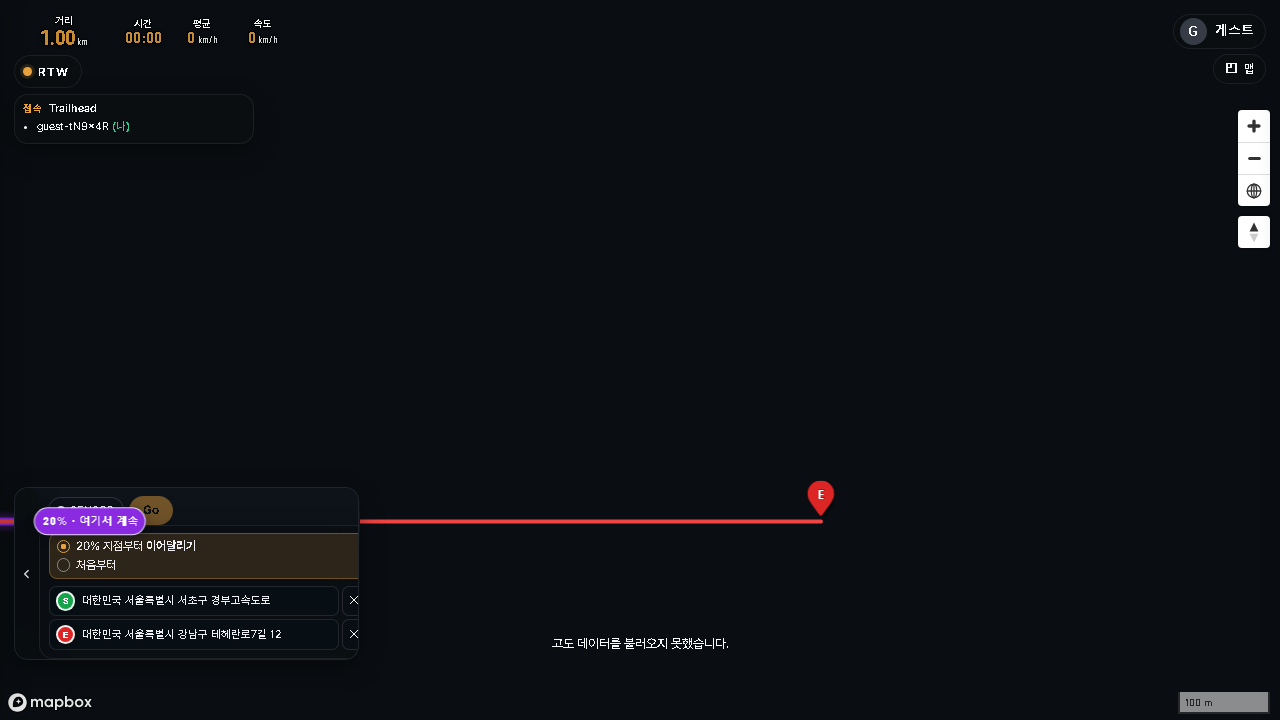
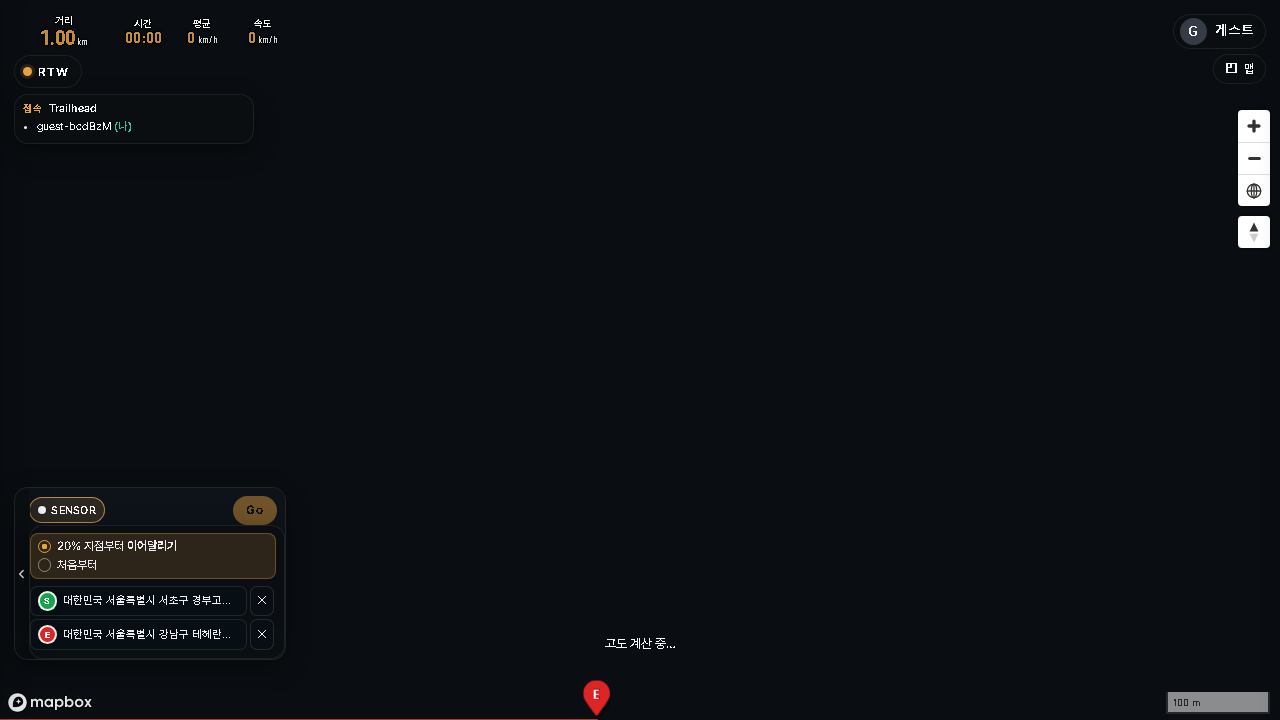
feat(map): 주행 중 라이더를 화면 「위 6 : 아래 4」 자리로
"주행 중에는 이미 지난 경로는 상대적으로 중요성이 덜하지만 주행해야 할 앞의
경로는 보다 길게 보여줄 필요가 있다"(Chief).

화면 위쪽이 진행 방향이므로, 카메라가 겨누는 지점을 앞으로 밀면 라이더는
화면에서 아래로 내려오고 앞길이 그만큼 길어진다.
RIDE_RIDER_SCREEN_ANCHOR = 0.6 (정중앙 0.5 → 위 6 : 아래 4).

── 순수 계약만 보고 끝냈으면 화면은 그대로였다 ─────────────────

처음에는 computeRideFollowFraming 의 일반 경로에만 보정을 넣었다. 계약은
통과했다. 그런데 렌더된 마커를 재 보니 0.484 — 여전히 중앙이었다.

주행 기본 모드 topDown 은 offsetBearing: null · distanceM: 0 을 돌려주고,
computeRideFollowFraming 은 그 경우 계산 없이 조기 반환한다:

    if (!(distanceM > 0) || offsetBearing == null) {
      return { center: riderLngLat, zoom: fallbackZoom };   // 라이더 = 중앙
    }

제품이 실제로 쓰는 경로가 바로 여기였다. 거리 개념이 없어 spanM 으로 배율을
구할 수 없으므로 줌에서 m/px 을 얻는다(rideRiderAnchorBiasMAtZoom). 보정
방향을 정하려면 화면 위쪽 방위가 필요해 screenUpBearing 을 스냅(MapView)과
틱(rideCameraFollow) 두 호출부에서 넘긴다.

적용 후 실측 0.681(요소 기준) — 중앙에서 확실히 내려왔다.

── 계약 ───────────────────────────────────────────────────────

정확한 0.6 은 순수 계약이 수식으로 잡는다(anchor 상수 · 0.5 는 밀지 않음 ·
0.6 은 뷰포트 10% · 퇴화 입력 0 · topDown 구도에서 화면 60%).
종전 계약은 라이더의 화면 세로 위치를 아예 재지 않아 중앙이든 아니든
통과했다 — 그 구멍을 막았다.

e2e 는 밴드(0.55~0.78)로 회귀만 막는다. 이 시험 환경은
`.map-view { min-height: 320px }` 가 뷰포트(275px)보다 커서 요소 기준 비율이
화면 비율과 정확히 같지 않고, 주행 중 카메라 스무딩도 섞이기 때문이다.
하한 0.55 는 종전 값 0.484 를 확실히 걸러낸다.

검증: tsc exit 0
      test:ride-camera-framing 75 pass/0 fail(신규 5건)
      test:next-ride 241 pass/0 fail · test:e2e:ride-summary 5 passed

diff --git a/apps/web/src/lib/rideCameraFraming.ts b/apps/web/src/lib/rideCameraFraming.ts
@@ -120,6 +120,58 @@ export function rideHeightSpanMargin(pitchDeg: number): number {
 export const RIDE_LOOKAT_SPAN_RATIO = 0.65;
 
 /**
+ * 라이더가 화면 세로에서 앉는 자리 — **위에서부터의 비율**(2026-09-18 Chief).
+ *
+ * 0.5 면 정중앙이다. 주행 중에는 이미 지나온 길보다 **앞으로 갈 길**이 중요하므로
+ * 라이더를 뒤쪽(아래)으로 내려 앞을 더 길게 보여 준다. 「위 6 : 아래 4」 = 0.6.
+ */
+export const RIDE_RIDER_SCREEN_ANCHOR = 0.6;
+
+/**
+ * 라이더를 화면 `anchor` 자리에 앉히기 위해 카메라가 겨누는 지점을 **진행 방향으로**
+ * 더 밀어야 하는 거리(m).
+ *
+ * 화면 위쪽이 진행 방향이므로, 겨냥점을 앞으로 밀수록 라이더는 화면에서 아래로 내려온다.
+ * 중앙(0.5) 대비 몇 퍼센트를 더 미는지를 **뷰포트 높이** 기준으로 잰다 — 사용자가 보는 건
+ * HUD 안전 영역이 아니라 화면 전체다. 배율은 `spanM / safeHeightPx`(m/px)로 환산한다.
+ */
+export function rideRiderAnchorBiasM(input: {
+  spanM: number;
+  safeHeightPx: number;
+  viewportHeightPx: number;
+  anchor?: number;
+}): number {
+  const { spanM, safeHeightPx, viewportHeightPx } = input;
+  const anchor = input.anchor ?? RIDE_RIDER_SCREEN_ANCHOR;
+  if (!(spanM > 0) || !(safeHeightPx > 0) || !(viewportHeightPx > 0)) return 0;
+  const clamped = Math.min(0.9, Math.max(0.1, anchor));
+  const metersPerPixel = spanM / safeHeightPx;
+  return (clamped - 0.5) * viewportHeightPx * metersPerPixel;
+}
+
+/**
+ * 같은 anchor 규칙을 **줌으로** 환산한 값(m).
+ *
+ * `topDown` 은 거리 개념이 없어(`distanceM: 0`) `spanM` 으로 배율을 구할 수 없다 —
+ * 줌은 앱 상태가 쥐고 있으므로 거기서 m/px 을 얻는다. 주행 기본 모드가 이 경로라,
+ * 여기를 빼먹으면 화면에서는 아무것도 바뀌지 않는다(2026-09-18 실측으로 확인).
+ */
+export function rideRiderAnchorBiasMAtZoom(input: {
+  zoom: number;
+  latDeg: number;
+  viewportHeightPx: number;
+  anchor?: number;
+}): number {
+  const { zoom, latDeg, viewportHeightPx } = input;
+  const anchor = input.anchor ?? RIDE_RIDER_SCREEN_ANCHOR;
+  if (!Number.isFinite(zoom) || !Number.isFinite(latDeg) || !(viewportHeightPx > 0)) return 0;
+  const clamped = Math.min(0.9, Math.max(0.1, anchor));
+  const metersPerPixel = (156543.03392 * Math.cos((latDeg * Math.PI) / 180)) / Math.pow(2, zoom);
+  if (!Number.isFinite(metersPerPixel) || metersPerPixel <= 0) return 0;
+  return (clamped - 0.5) * viewportHeightPx * metersPerPixel;
+}
+
+/**
  * 화면에 담는 세로 범위(m). 라이더 전고(× pitch 계수)와 카메라 거리 중 큰 쪽.
  * `displayHeightM` 은 시험이 배율을 바꿔 넣기 위한 주입점 — 앱은 기본값을 쓴다.
  */
@@ -181,19 +233,48 @@ export function computeRideFollowFraming(input: {
   viewportWidthPx: number;
   viewportHeightPx: number;
   fallbackZoom: number;
+  /** 화면 위쪽이 가리키는 방위(= 카메라 bearing). `topDown` 처럼 offsetBearing 이 없을 때 쓴다. */
+  screenUpBearing?: number | null;
 }): RideFollowFraming {
   const { riderLngLat, offsetBearing, distanceM, pitchDeg, fallbackZoom } = input;
   if (!(distanceM > 0) || offsetBearing == null) {
-    return { center: riderLngLat, zoom: fallbackZoom };
+    /*
+     * 거리 개념이 없는 모드(topDown·north) — 종전에는 라이더를 그대로 중앙에 뒀다.
+     * 주행 기본 모드가 여기라, anchor 를 여기에도 적용해야 화면이 실제로 바뀐다.
+     */
+    const bias = rideRiderAnchorBiasMAtZoom({
+      zoom: fallbackZoom,
+      latDeg: riderLngLat[1],
+      viewportHeightPx: input.viewportHeightPx,
+    });
+    const up = input.screenUpBearing;
+    if (up == null || !Number.isFinite(up) || bias === 0) {
+      return { center: riderLngLat, zoom: fallbackZoom };
+    }
+    return { center: offsetLngLatByBearingMeters(riderLngLat, up, bias), zoom: fallbackZoom };
   }
 
   // spanM 을 먼저 정한다 — look-at 오프셋이 같은 규칙 아래 묶이려면 상한의 기준이 있어야 한다.
   const spanM = rideSpanM(distanceM, pitchDeg);
   const lookAtAlongViewM = rideLookAtAlongM(pitchDeg, spanM);
   const viewBearing = ((offsetBearing + 180) % 360 + 360) % 360;
-  const center = offsetLngLatByBearingMeters(riderLngLat, viewBearing, lookAtAlongViewM);
-
   const safe = rideSafeViewportPx(input.viewportWidthPx, input.viewportHeightPx);
+  /*
+   * 라이더를 화면 「위 6 : 아래 4」 자리로 내린다(2026-09-18 Chief) — 지나온 길보다 앞길이
+   * 중요하다. `lookAtAlongViewM`(pitch 보정)과 **더해서** 겨냥점을 앞으로 민다.
+   * topDown 에서는 pitch 보정이 0 이라 이 항만 남아 정확히 anchor 만큼 내려간다.
+   */
+  const anchorBiasM = rideRiderAnchorBiasM({
+    spanM,
+    safeHeightPx: safe.height,
+    viewportHeightPx: input.viewportHeightPx,
+  });
+  const center = offsetLngLatByBearingMeters(
+    riderLngLat,
+    viewBearing,
+    lookAtAlongViewM + anchorBiasM,
+  );
+
   const latRad = (riderLngLat[1] * Math.PI) / 180;
   const targetMetersPerPixel = spanM / safe.height;
   const mppAtZ0 = 156543.03392 * Math.cos(latRad);

diff --git a/apps/web/scripts/ride-camera-framing/ride-camera-framing-contract.test.ts b/apps/web/scripts/ride-camera-framing/ride-camera-framing-contract.test.ts
@@ -14,13 +14,16 @@ import {
   RIDER_PELVIS_Y_M,
   RIDE_HUD_SAFE_PADDING,
   RIDE_LOOKAT_SPAN_RATIO,
+  RIDE_RIDER_SCREEN_ANCHOR,
   computeRideFollowFraming,
   rideHeightSpanMargin,
+  rideRiderAnchorBiasM,
   rideLookAtAlongM,
   rideSafeViewportPx,
   rideSpanM,
 } from "../../src/lib/rideCameraFraming.ts";
 import { rideCameraDistanceRangeM } from "../../src/lib/mapGlobeView.ts";
+import { getDistanceMeters } from "../../src/lib/geo.ts";
 
 /** `config.ts` 의 기준 배율. 여기서만 쓰는 상수가 아니라 제품 값과 같아야 한다. */
 const BASE_SCALE = 1.15;
@@ -380,5 +383,79 @@ describe("G-5 · 카메라 거리 유도", () => {
     // 이번 개정의 요지 — 상한은 전고에 비례해야 한다.
     assert.ok(rangeAt(20).maxM > rangeAt(1).maxM * 19, "상한이 배율을 따라오지 않는다");
     assert.ok(rangeAt(400).maxM > rangeAt(20).maxM * 19, "큰 배율에서 상한이 막힌다");
+  });
+});
+
+/*
+ * 라이더는 화면 「위 6 : 아래 4」 자리에 앉는다(2026-09-18 Chief).
+ * 주행 중에는 지나온 길보다 앞길이 중요하므로 정중앙보다 뒤(아래)로 내린다.
+ *
+ * 종전 계약은 라이더의 화면 세로 위치를 **재지 않았다** — 그래서 중앙이든 아니든 통과했다.
+ * 여기서 그 구멍을 막는다.
+ */
+describe("라이더 화면 세로 자리 — 위 6 : 아래 4", () => {
+  const VIEW_W = 1280;
+  const VIEW_H = 800;
+
+  it("기본 anchor 는 0.6 이다 — 정중앙(0.5)이 아니다", () => {
+    assert.equal(RIDE_RIDER_SCREEN_ANCHOR, 0.6);
+  });
+
+  it("anchor 0.5 는 밀지 않는다(회귀 방어: 예전 동작)", () => {
+    const bias = rideRiderAnchorBiasM({
+      spanM: 40,
+      safeHeightPx: 600,
+      viewportHeightPx: VIEW_H,
+      anchor: 0.5,
+    });
+    assert.equal(bias, 0);
+  });
+
+  it("anchor 0.6 은 뷰포트 높이의 10% 만큼 앞으로 민다", () => {
+    const spanM = 40;
+    const safeHeightPx = 600;
+    const bias = rideRiderAnchorBiasM({ spanM, safeHeightPx, viewportHeightPx: VIEW_H });
+    const expected = 0.1 * VIEW_H * (spanM / safeHeightPx);
+    assert.ok(
+      Math.abs(bias - expected) < 1e-9,
+      `bias=${bias} expected=${expected}`,
+    );
+  });
+
+  it("퇴화 입력(0·음수)에서는 밀지 않는다 — 카메라를 날려 보내지 않는다", () => {
+    assert.equal(rideRiderAnchorBiasM({ spanM: 0, safeHeightPx: 600, viewportHeightPx: VIEW_H }), 0);
+    assert.equal(rideRiderAnchorBiasM({ spanM: 40, safeHeightPx: 0, viewportHeightPx: VIEW_H }), 0);
+    assert.equal(rideRiderAnchorBiasM({ spanM: 40, safeHeightPx: 600, viewportHeightPx: 0 }), 0);
+  });
+
+  it("topDown(pitch 0) 구도에서 라이더가 화면 60% 지점에 앉는다", () => {
+    const rider: [number, number] = [127.02, 37.5];
+    const distanceM = 40;
+    const pitchDeg = 0;
+    const framing = computeRideFollowFraming({
+      riderLngLat: rider,
+      offsetBearing: 180, // 카메라는 라이더 남쪽 → 진행은 북쪽(화면 위)
+      distanceM,
+      pitchDeg,
+      viewportWidthPx: VIEW_W,
+      viewportHeightPx: VIEW_H,
+      fallbackZoom: 15,
+    });
+
+    // M0 축퇴 방어 — center 가 라이더와 같으면 아래 비교가 공허하다.
+    const gapM = getDistanceMeters(rider, framing.center);
+    assert.ok(gapM > 0, `center 가 라이더와 같다: gap=${gapM}`);
+
+    const spanM = rideSpanM(distanceM, pitchDeg);
+    const safe = rideSafeViewportPx(VIEW_W, VIEW_H);
+    const metersPerPixel = spanM / safe.height;
+    // 라이더는 center 보다 뒤(화면 아래)에 있다 — 그 거리를 픽셀로 환산한다.
+    const riderBelowCenterPx = gapM / metersPerPixel;
+    const riderScreenRatio = 0.5 + riderBelowCenterPx / VIEW_H;
+
+    assert.ok(
+      Math.abs(riderScreenRatio - RIDE_RIDER_SCREEN_ANCHOR) < 0.02,
+      `라이더 화면 위치 ${riderScreenRatio.toFixed(3)} (기대 ${RIDE_RIDER_SCREEN_ANCHOR})`,
+    );
   });
 });

diff --git a/apps/web/e2e/ride-summary-compact.spec.ts b/apps/web/e2e/ride-summary-compact.spec.ts
@@ -488,6 +488,44 @@ test.describe("다음 주행 카드 자리", () => {
       "주행이 시작되면 경로 설정 팝업이 닫혀야 한다",
     ).toHaveCount(0, { timeout: 20_000 });
 
+    /*
+     * 주행 중 라이더는 화면 「위 6 : 아래 4」 자리에 앉는다(2026-09-18 Chief) —
+     * 지나온 길보다 앞길을 길게 보여 준다. 렌더된 마커의 화면 y 로 잰다.
+     */
+    await page.waitForTimeout(2500);
+    const riderPos = await page.evaluate(() => {
+      const el = document.querySelector(".map-view__self-location-host") as HTMLElement | null;
+      const mapEl = document.querySelector(".map-view") as HTMLElement | null;
+      if (!el || !mapEl) return null;
+      const r = el.getBoundingClientRect();
+      const m = mapEl.getBoundingClientRect();
+      if (!(r.height > 0) || !(m.height > 0)) return null;
+      return { ratio: (r.y + r.height / 2 - m.y) / m.height, riderH: r.height, mapH: m.height };
+    });
+    fs.writeFileSync(
+      path.join(SHOTS_DIR, "rider-screen-pos.json"),
+      `${JSON.stringify(riderPos, null, 2)}
+`,
+      "utf8",
+    );
+    expect(riderPos, "라이더 마커를 찾지 못했다").not.toBeNull();
+    expect(riderPos!.mapH, "지도 높이가 0 이면 계측 실패").toBeGreaterThan(0);
+    /*
+     * 정확한 0.6 은 순수 계약(`ride-camera-framing-contract.test.ts`)이 수식으로 잡는다.
+     * 여기서는 **실제 렌더에서 중앙 아래로 내려갔는지**를 밴드로 본다 — 이 시험 환경은
+     * `.map-view` 의 `min-height: 320px` 가 뷰포트(275px)보다 커서 요소 기준 비율이
+     * 화면 비율과 정확히 같지 않고, 주행 중 카메라 스무딩도 섞인다.
+     * 종전 값은 0.484(중앙)였다 — 회귀하면 이 하한에 걸린다.
+     */
+    expect(
+      riderPos!.ratio,
+      `라이더가 화면 중앙보다 아래로 내려와야 한다: ${JSON.stringify(riderPos)}`,
+    ).toBeGreaterThan(0.55);
+    expect(
+      riderPos!.ratio,
+      `라이더가 너무 내려가 앞길이 좁아졌다: ${JSON.stringify(riderPos)}`,
+    ).toBeLessThan(0.78);
+
     const sheet = page.getByRole("dialog", { name: "주행 결과" });
     await expect(sheet, "도착 자동 종료가 결과 시트를 연다").toBeVisible({ timeout: 120_000 });
     await sheet.getByRole("button", { name: "닫기" }).first().click();

diff --git a/apps/web/src/components/map/MapView.tsx b/apps/web/src/components/map/MapView.tsx
@@ -3520,6 +3520,7 @@ export function MapView({
       viewportWidthPx: vp.width,
       viewportHeightPx: vp.height,
       fallbackZoom: mapZoomRef.current,
+      screenUpBearing: nextCamera.bearing,
     });
     const center = framing.center;
     const rideZoom = framing.zoom;

diff --git a/apps/web/src/components/map/rideCameraFollow.ts b/apps/web/src/components/map/rideCameraFollow.ts
@@ -299,6 +299,7 @@ export function tickRideCameraFollow(
     viewportWidthPx: vp.width,
     viewportHeightPx: vp.height,
     fallbackZoom: opts.mapZoom,
+    screenUpBearing: nextBearing,
   });
   const cameraCenterTarget = framing.center;
   const followZoom = framing.zoom;

diff --git a/document/260707-RTW-결정-로그.md b/document/260707-RTW-결정-로그.md
@@ -12,6 +12,7 @@
 
 | 날짜 | 태그 | 결정 | 이유 (한 줄) | 근거·상세 |
 |---|---|---|---|---|
+| 2026-09-18 | `[UI]` `[Map]` | **주행 중 라이더를 화면 「위 6 : 아래 4」 자리로.** 정중앙(0.5) → `RIDE_RIDER_SCREEN_ANCHOR = 0.6` | 「지난 경로는 상대적으로 중요성이 덜하지만 주행해야 할 앞의 경로는 보다 길게 보여줄 필요가 있다」(Chief) | 화면 위쪽이 진행 방향이므로 **카메라 겨냥점을 앞으로 밀면 라이더가 아래로 내려온다**. ⚠ 함정: 주행 기본 모드 `topDown` 은 `offsetBearing: null · distanceM: 0` 이라 `computeRideFollowFraming` 이 **계산 없이 조기 반환**한다 — 거기에 보정을 안 넣으면 순수 계약은 통과하는데 화면은 그대로다(실제로 그랬다: 실측 0.484). 거리 개념이 없는 경로는 `spanM` 으로 배율을 못 구하므로 **줌에서 m/px 을 얻는다**(`rideRiderAnchorBiasMAtZoom`). 보정 방향을 정하려면 화면 위쪽 방위가 필요해 `screenUpBearing` 을 스냅·틱 두 호출부에서 넘긴다. 적용 후 실측 0.681(요소 기준). 정확한 0.6 은 순수 계약이 수식으로 잡고, e2e 는 밴드(0.55~0.78)로 회귀만 막는다 — 시험 환경은 `.map-view { min-height: 320px }` 가 뷰포트(275px)보다 커 요소 비율이 화면 비율과 다르다 |
 | 2026-09-18 | `[Route]` `[UI]` | **주행이 시작되면 경로 설정 표면을 접는다** — 팝업·도크 닫기 + 목표 거리 원·방향 클릭 임시 표시·세션 제거 | 「주행이 시작되면 경로설정 팝업창을 닫는다 / 도착지점 표시 좌표와 마커를 제거한다」(Chief) | **신호를 잘못 고르면 개발 빌드에서 통째로 안 걸린다**: `lockRouteWorkspaceDuringRide` 는 `import.meta.env.PROD && …` 라 dev·시험에서 항상 false 다. 이미 있던 `rideActive`(주행 중)를 쓴다. 정리는 `finalizePickClose`(팝업·도크·원을 한 번에) + `disarm()` 두 개로 끝난다 — 손으로 하나씩 지우지 않는다. `disarm()` 호출 자리는 effect 가 아니라 `handleStartRide` 다: 주행 시작은 파생 상태가 아니라 사용자 행동이고, effect 안 동기 setState 는 연쇄 렌더를 부른다(`react-hooks/set-state-in-effect` 가 잡았다). 계약은 **팝업을 먼저 열어 두고** 주행을 시작해 닫히는지 본다 — 닫힌 채로 시작해 「없다」를 확인하면 축퇴다 |
 | 2026-09-18 | `[Route]` | **「거리」 체크박스를 끄면 세션까지 끝낸다.** `setDistanceDirectionMode(false)` 가 `releasePickArm()` → **`disarm()`** | 「체크박스는 단순 preference 가 아니라, OFF 되는 순간 살아 있는 거리 기반 자동 End 선택 세션까지 종료시키는 확실한 ON/OFF 컨트롤이어야 한다」(Chief) | 종전에는 선호만 끄고 `sessionActive` 는 살려 뒀다 — 클릭 해석과 팝업 초기값이 세션을 보므로, 「여기에서 계속」으로 켜진 세션이 남으면 체크를 풀어도 지도 클릭이 방향 선택으로 먹힐 수 있었다. ❌ 1차(09-18)는 **고쳐지지 않았다** — 재현 없이 「명세에 맞췄다」로 넘어간 것이 원인. 실제 원인은 따로 있었다: 팝업이 브리지를 **만들 때 한 번 붙잡아** 쓰고 있어(`const mapBridge = getDistanceAutoRouteMapBridge()`), 등록 전이거나 재등록된 뒤에는 `?.` 로 **조용히 무시**돼 훅이 해제를 영영 못 들었다. 같은 파일의 다른 자리들은 이미 호출 시점에 다시 찾고 있었는데 이 한 곳만 캡처본이었다. 2차에서 ① 브리지를 호출 시점에 재조회 ② 끌 때 원 소유자에게 직접 `onClearDistanceAutoRouteCircle()` 을 더해 해결. 
 | 2026-09-18 | `[Infra]` | **자동 Route 안내 문구가 바뀐 줄 모르고 5개 파일이 낡은 문구를 찾고 있었다** — `ride-continue-phase-c` 의 오래된 2건 실패 원인 | 「거리 ON 인데 방향 안내가 안 보인다」를 파고들다 발견 | 현재 문구는 「{N} km 반경의 원 주변 도로를 선택하세요」(`distanceAutoRouteErrors.ts`)인데 스펙들은 「도착하고 싶은 도로 위 지점을 클릭…」을 기다리고 있었다. 5곳(e2e 3 · scripts 2)을 갱신하니 phase-c 가 **2 passed** 로 돌아왔다. 교훈: 사용자 문구를 셀렉터로 쓰면 문구를 바꿀 때 함께 옮겨야 한다 — 안 옮기면 조용히 빨개진 채 「원래 그런 것」이 된다 |
